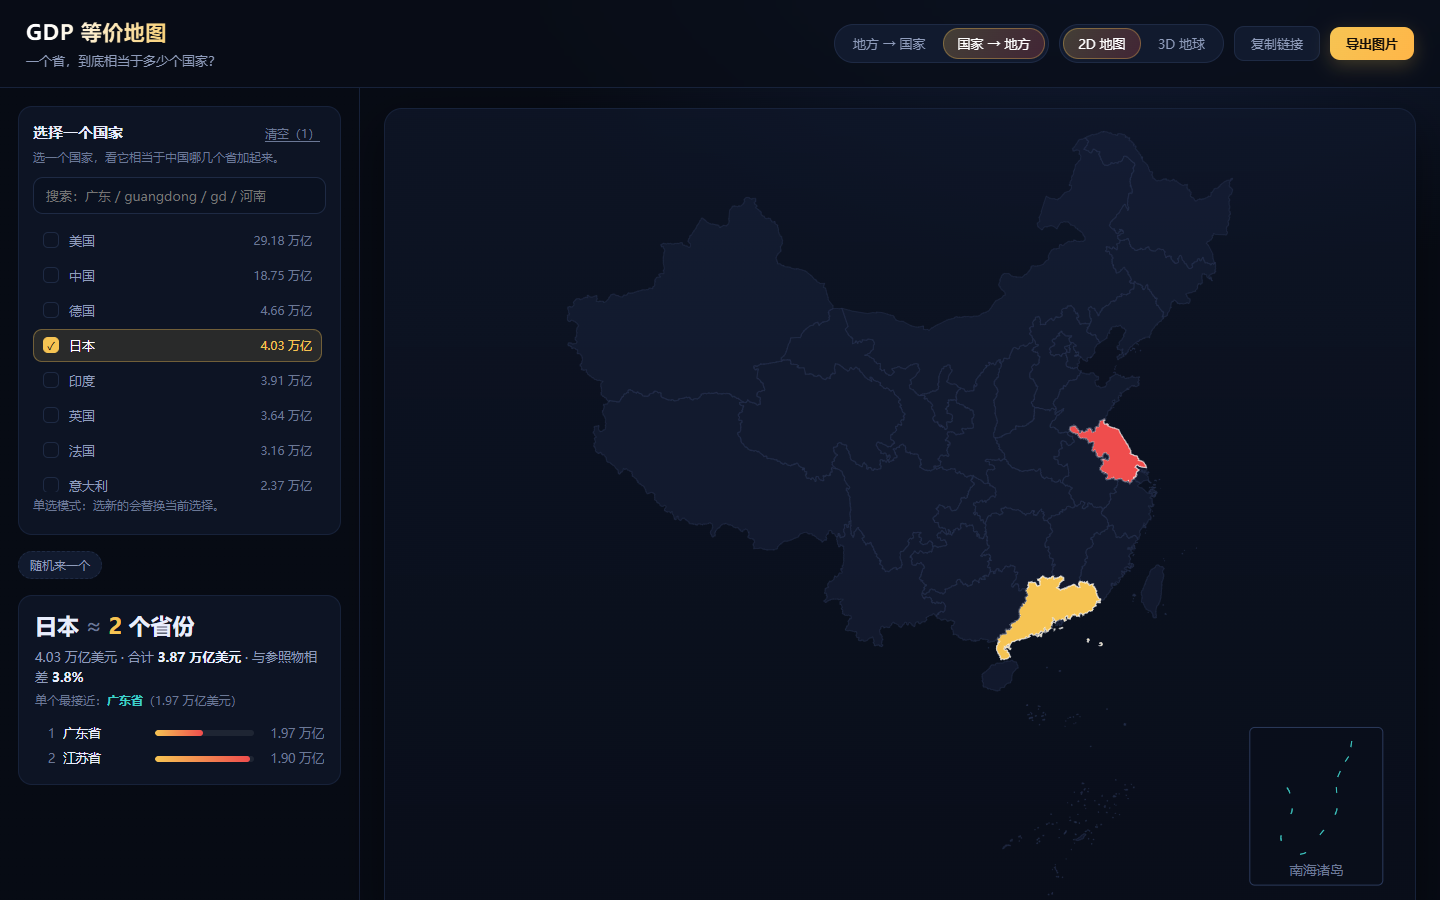
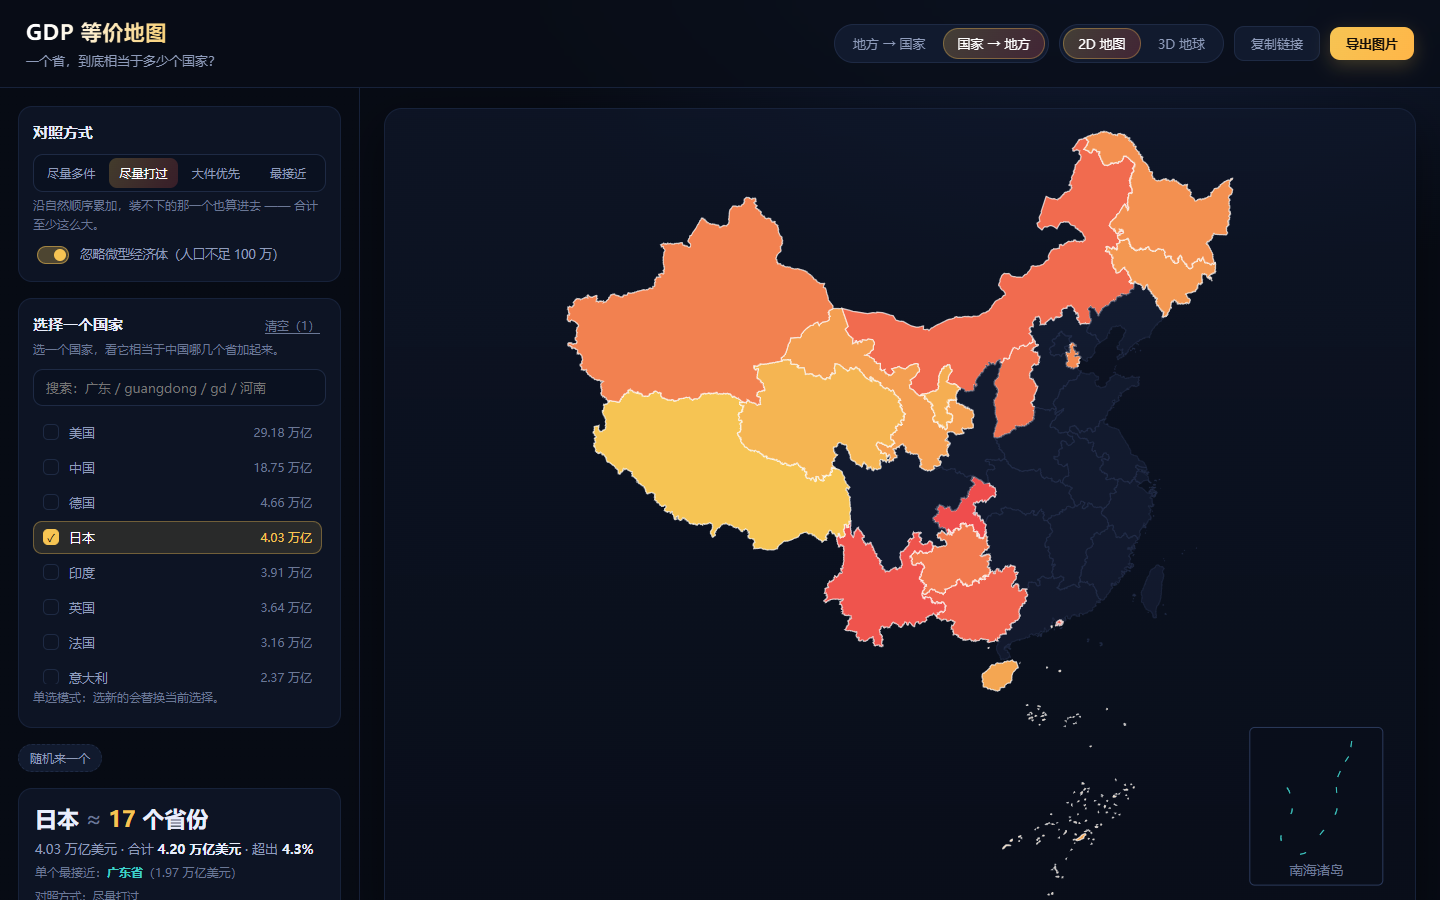
fix: correct 3D arc endpoints and split hidden segments
Arcs were drawn as a single polyline, so the part of a great circle that
falls behind the globe got connected straight across the map and the line
landed nowhere. Split the path per visible segment, take the endpoint from
the mainland centroid instead of the whole-country one that offshore
islands drag away, and mark the origin so the comparison is readable.

diff --git a/src/components/GlobeView.tsx b/src/components/GlobeView.tsx
@@ -31,7 +31,8 @@ export function GlobeView({ polygons, highlights, sources = new Map(), arcs = []
   const pathRefs = useRef(new Map<string, SVGPathElement>());
   const shadowRefs = useRef(new Map<string, SVGPathElement>());
   const labelRefs = useRef(new Map<string, SVGTextElement>());
-  const arcRefs = useRef(new Map<string, SVGPolylineElement>());
+  const arcRefs = useRef(new Map<string, SVGPathElement>());
+  const originRef = useRef<SVGGElement | null>(null);
   const rotation = useRef<[number, number]>([110, -20]);
   const drag = useRef<{ x: number; y: number; lon: number; lat: number } | null>(null);
   const frame = useRef(0);
@@ -85,38 +86,76 @@ export function GlobeView({ polygons, highlights, sources = new Map(), arcs = []
       el.setAttribute('y', String(c[1]));
     }
 
-    // 弧线：球面两点之间的大圆插值，再向外鼓一点做出立体感
+    // 弧线：球面两点之间的大圆插值，再向外鼓一点做出立体感。
+    // 关键：被地球背面遮住的那一段不能连过去，否则线会横穿地图、端点对不上。
     for (const [i, arc] of arcs.entries()) {
       const el = arcRefs.current.get(String(i));
       if (!el) continue;
-      const pts: string[] = [];
       const [lon1, lat1] = arc.start;
       const [lon2, lat2] = arc.end;
       const φ1 = (lat1 * Math.PI) / 180;
       const λ1 = (lon1 * Math.PI) / 180;
       const φ2 = (lat2 * Math.PI) / 180;
       const λ2 = (lon2 * Math.PI) / 180;
-      const d = 2 * Math.asin(Math.sqrt(Math.sin((φ2 - φ1) / 2) ** 2 + Math.cos(φ1) * Math.cos(φ2) * Math.sin((λ2 - λ1) / 2) ** 2));
-      for (let s = 0; s <= 40; s += 1) {
-        const t = s / 40;
+      const d =
+        2 *
+        Math.asin(
+          Math.sqrt(
+            Math.sin((φ2 - φ1) / 2) ** 2 + Math.cos(φ1) * Math.cos(φ2) * Math.sin((λ2 - λ1) / 2) ** 2
+          )
+        );
+
+      const segments: string[][] = [];
+      let current: string[] = [];
+      for (let s = 0; s <= 48; s += 1) {
+        const t = s / 48;
+        let lon: number;
+        let lat: number;
         if (d < 1e-6) {
-          pts.push(`${projection([lon1, lat1])?.join(',')}`);
+          lon = lon1;
+          lat = lat1;
+        } else {
+          const A = Math.sin((1 - t) * d) / Math.sin(d);
+          const B = Math.sin(t * d) / Math.sin(d);
+          const x = A * Math.cos(φ1) * Math.cos(λ1) + B * Math.cos(φ2) * Math.cos(λ2);
+          const y = A * Math.cos(φ1) * Math.sin(λ1) + B * Math.cos(φ2) * Math.sin(λ2);
+          const z = A * Math.sin(φ1) + B * Math.sin(φ2);
+          lon = (Math.atan2(y, x) * 180) / Math.PI;
+          lat = (Math.atan2(z, Math.hypot(x, y)) * 180) / Math.PI;
+        }
+        const p = projection([lon, lat]);
+        if (!p) {
+          // 背面不可见：断开，别把两段直线连起来
+          if (current.length > 1) segments.push(current);
+          current = [];
           continue;
         }
-        const A = Math.sin((1 - t) * d) / Math.sin(d);
-        const B = Math.sin(t * d) / Math.sin(d);
-        const x = A * Math.cos(φ1) * Math.cos(λ1) + B * Math.cos(φ2) * Math.cos(λ2);
-        const y = A * Math.cos(φ1) * Math.sin(λ1) + B * Math.cos(φ2) * Math.sin(λ2);
-        const z = A * Math.sin(φ1) + B * Math.sin(φ2);
-        const p = projection([(Math.atan2(y, x) * 180) / Math.PI, (Math.atan2(z, Math.hypot(x, y)) * 180) / Math.PI]);
-        if (!p) continue;
-        const bulge = 1 + 0.055 * Math.sin(Math.PI * t);
+        const bulge = 1 + 0.05 * Math.sin(Math.PI * t);
         const cx = SIZE / 2 + (p[0] - SIZE / 2) * bulge;
         const cy = SIZE / 2 + (p[1] - SIZE / 2) * bulge;
-        pts.push(`${cx.toFixed(1)},${cy.toFixed(1)}`);
+        current.push(`${cx.toFixed(1)},${cy.toFixed(1)}`);
       }
-      el.setAttribute('points', pts.join(' '));
-      el.setAttribute('opacity', '1');
+      if (current.length > 1) segments.push(current);
+
+      el.setAttribute('d', segments.map((seg) => `M${seg.join('L')}`).join(' '));
+      el.setAttribute('opacity', segments.length ? '1' : '0');
+    }
+
+    // 起点标记：所有弧线都从参照地区出发，标出来才看得出「谁对谁」
+    const origin = originRef.current;
+    if (origin) {
+      const first = arcs[0];
+      if (first) {
+        const p = projection([first.start[0], first.start[1]]);
+        if (p) {
+          origin.setAttribute('transform', `translate(${p[0]}, ${p[1]})`);
+          origin.setAttribute('opacity', '1');
+        } else {
+          origin.setAttribute('opacity', '0');
+        }
+      } else {
+        origin.setAttribute('opacity', '0');
+      }
     }
   }, [arcs, features, labelTargets, path, projection]);
 
@@ -248,7 +287,7 @@ export function GlobeView({ polygons, highlights, sources = new Map(), arcs = []
 
         <g className="globe-arcs">
           {arcs.map((arc, i) => (
-            <polyline
+            <path
               key={i}
               ref={(el) => {
                 if (el) arcRefs.current.set(String(i), el);
@@ -264,8 +303,12 @@ export function GlobeView({ polygons, highlights, sources = new Map(), arcs = []
           ))}
         </g>
 
-        <g className="globe-labels">
-          {labelTargets.map((t) => (
+        <g ref={originRef} className="globe-origin" opacity="0">
+          <circle r={9} fill="none" stroke="#3fd0c9" strokeWidth={1.4} opacity={0.85} />
+          <circle r={3.2} fill="#3fd0c9" />
+        </g>
+
+        <g className="globe-labels">          {labelTargets.map((t) => (
             <text
               key={t.id}
               ref={(el) => {

diff --git a/src/App.tsx b/src/App.tsx
@@ -7,7 +7,7 @@ import { ResultPanel } from './components/ResultPanel';
 import { WorldMap } from './components/WorldMap';
 import { loadChina, loadDataset, loadWorld, provinceToRegion, toRegion } from './lib/data';
 import { copyText, exportPng } from './lib/export';
-import { createChinaProjection, mixColor, PALETTE } from './lib/geo';
+import { createChinaProjection, featureMainCentroid, mixColor, PALETTE } from './lib/geo';
 import { formatUsd } from './lib/format';
 import { closestSingle, matchByStrategy, STRATEGY_HINT, STRATEGY_LABEL } from './lib/match';
 import type { GdpItem, MatchStrategy } from './lib/match';
@@ -177,8 +177,8 @@ export default function App() {
     const centroidOfWorld = (id: string): [number, number] | null => {
       const f = world.features.find((x) => String(x.id) === id);
       if (!f) return null;
-      const c = geoCentroid(f as never);
-      return [c[0], c[1]];
+      // 用主体质心：整国的球面质心会被离岛带偏，弧线终点就落不到地方上
+      return featureMainCentroid(f);
     };
     // 弧线太多会糊成一团：只连最大的若干个
     const top = match.items.slice().sort((a, b) => b.gdp - a.gdp).slice(0, 12);

diff --git a/src/lib/geo.ts b/src/lib/geo.ts
@@ -104,3 +104,32 @@ export function featureCentroid(f: GeoFeature): [number, number] {
     return [0, 0];
   }
 }
+
+/**
+ * 主体质心：只取面积最大的那个多边形。
+ * 直接用 geoCentroid 会把离岛（法属圭亚那、夏威夷之类）一起算进去，
+ * 质心会漂到海上，地图上的弧线就会「对不上地点」。
+ */
+export function featureMainCentroid(f: GeoFeature): [number, number] {
+  try {
+    const polys =
+      f.geometry.type === 'Polygon'
+        ? [f.geometry.coordinates as unknown]
+        : (f.geometry.coordinates as unknown[]);
+    let best: unknown = null;
+    let bestArea = -1;
+    for (const poly of polys) {
+      const one = { type: 'Feature', properties: {}, geometry: { type: 'Polygon', coordinates: poly } } as never;
+      const area = Math.abs(geoArea(one));
+      if (area > bestArea) {
+        bestArea = area;
+        best = one;
+      }
+    }
+    if (!best) return featureCentroid(f);
+    const c = geoCentroid(best as never);
+    return [c[0], c[1]];
+  } catch {
+    return featureCentroid(f);
+  }
+}

diff --git a/README.md b/README.md
@@ -13,10 +13,21 @@
 | 地方 → 国家 | 选 1~N 个中国省级地区 | 地图上高亮等价的国家集合，并给出「≈ N 个国家」 |
 | 国家 → 地方 | 选 1 个国家 | 中国地图上高亮等价省份组合，并附南海诸岛 |
 
+**四种对照方式**（同一个目标，不同说法）：
+
+| 方式 | 规则 | 河南省（8,835 亿美元）的结果 |
+| --- | --- | --- |
+| 尽量多件 | 小件优先，件数最多，合计不超过目标 | 51 个国家，-2.6% |
+| 尽量打过 | 小件优先，装不下的那一个也算进去 | 52 个国家，**+1.4%**（至少这么大） |
+| 大件优先 | 大件优先，结果由叫得出名字的经济体组成 | 比利时 + 乌克兰 + 阿尔巴尼亚，-0.1% |
+| 最接近 | 只看单个最接近的对象 | 波兰，+2.8% |
+
+再配合「忽略微型经济体（人口不足 100 万）」开关，可以把图瓦卢、瑙鲁这类微型国家从结果里剔掉。
+
 - **2D 世界地图**：Natural Earth 投影，等价国家按累加顺序由暖到暗着色，左下角带中国定位小图
-- **3D 地球**：正射投影球面，自动旋转、可拖动，参照地区与等价国家之间连大圆弧线
+- **3D 地球**：正射投影球面，自动旋转、可拖动，参照地区与等价国家之间连大圆弧线（被球体背面遮住的部分会断开，不会横穿地球）
 - **搜索**：中文 / 拼音 / 拼音首字母都能搜（`广东` / `guangdong` / `gd`）
-- **分享**：选择状态写进 URL，复制链接即可复现同一张图
+- **分享**：选择状态、��照方式、过滤开关都写进 URL，复制链接即可复现同一张图
 - **导出**：一键导出带标题与数据来源的 PNG（2D / 3D 都支持）
 
 ## 跑起来
@@ -40,7 +51,7 @@ node scripts/acceptance.mjs   # 浏览器级验收（需先起 dev server）
 
 | 侧 | 来源 | 口径 |
 | --- | --- | --- |
-| 国家 | IMF《世界经济展望》2025 年 4 月版（经 DBnomics 镜像） | 名义 GDP，现价美元；2024 为实际值，2025 为该版预测值 |
+| 国家 | IMF《世界经济展望》2025 年 4 月版（经 DBnomics 镜像） | 名义 GDP + 人口，现价美元 / 百万人；2024 为实际值，2025 为该版预测值 |
 | 中国省级 | 国家统计局《中国统计年鉴2025》表 3-9《地区生产总值(2024年)》 | 名义 GDP，现价人民币，按当年年均汇率折美元 |
 | 汇率 | World Bank `PA.NUS.FCRF` | 年均官方汇率 |
 | 世界边界 | Natural Earth（经 D3 graph gallery 转换，ISO3 编号） | 台湾并入中国轮廓 |
@@ -53,14 +64,14 @@ node scripts/acceptance.mjs   # 浏览器级验收（需先起 dev server）
 
 ## 算法
 
-只有一小块是自己写的，其余都是成熟库：
+只有一小块是自己写的，其余都是成熟库（`src/lib/match.ts`）：
 
-- **地方 → 国家**：把国家按 GDP 从小到大排序后贪心累加，取累计值与目标最接近的一组
-  （`src/lib/match.ts` 的 `accumulateAscending`）
-- **国家 → 地方**：反过来，从大到小累加（`accumulateDescending`）
-- **单个最接近**：另给一个对照，例如「河南 ≈ 波兰」
+- `accumulate(target, pool, { order, rule })`：一个带两种顺序（升序/降序）和两种规则
+  （装得下就加 / 装不下的那一个也算进去）的通用累加器，四种对照方式都由它组合出来
+- `matchByStrategy(target, pool, strategy)`：把四种口径包成统一入口
+- `closestSingle`：单个最接近的对象
 
-累加是贪心的，所以结果是「一组国家」，不是一个；总数（81 个）正是这个工具想给的那个数字。
+累加是贪心的，所以结果是「一组国家」，不是一个；件数（51 个 / 3 个）正是这个工具想给的那个数字。
 
 ## 技术选型
 
@@ -101,7 +112,7 @@ node scripts/acceptance.mjs   # 浏览器级验收（需先起 dev server）
 - 只做了**名义 GDP（当年价格美元）**。PPP 口径在原始数据里备着，但省级没有同口径的 PPP 源，暂不开放切换
 - 数据年份目前锁定 2024（双方都有官方实绩的最新完整年度）
 - 只有中国省级 + 世界国家；美国州、欧洲 NUTS 暂未接入
-- 「≈ N 个国家」是贪心累加的结果，不同算法会得到不同但同样合理的组合
+- 「≈ N 个国家」是贪心累加的结果，不同算法会得到不同但同样合理的组合；四种对照方式就是给这件事的四个口径
 
 ## License
 

diff --git a/AGENTS.md b/AGENTS.md
@@ -44,6 +44,9 @@
 
 1. **主答案是「一组国家」，不是一个。** 「河南 ≈ 81 个国家」这个数字才是这个项目的卖点，
    所以匹配算法用贪心累加，不要改成「找最接近的单个国家」。
+2. **对照方式有四种，不要合并成一种。** 纯贪心永远给出图瓦卢、瑙鲁那一串微型国家，
+   所以另给了「尽量多件 / 尽量打过 / 大件优先 / 最接近」四种口径，
+   外加「忽略微型经济体（人口 < 100 万）」开关。默认「尽量打过」。
 2. **纯 SVG，不引 WebGL。** 地球用 d3-geo 正射投影实现。曾经用 globe.gl（three.js），
    在受限环境里会把页面渲染进程卡死，且导出要走 canvas，收益远小于代价。
 3. **只用名义 GDP（当年价格美元）。** PPP 在原始数据里备着，但省级没有同口径 PPP 源，
@@ -52,6 +55,7 @@
 5. **中国地图用 DataV 边界并附南海诸岛小图。** 面向国内发布时这是合规要求，别去掉。
 6. **台湾并入中国轮廓（世界地图）。** 中国省级列表里台湾省是单独一级行政区。
 7. **港澳台走省级池，不进国家池。** 避免同一个经济体在两个列表里各出现一次。
+8. **对照方式与过滤开关写进 URL。** 分享链接要复现同一张图，光有选择项不够。
 
 ## 4. 已知的技术坑（改代码前先看这里）
 
@@ -63,6 +67,11 @@
 - **导出前必须摘掉 SVG 上的滤镜。** 逐路径高斯模糊会让栅格化慢到页面假死（105 个高亮路径时实测会卡）。
   `src/lib/export.ts` 里已经做了 `clone.querySelectorAll('[filter]')` 的清理。
 - **地球每帧要重算 209 条路径**，所以做了节流（约 18 帧/秒），别去掉。
+- **3D 弧线不能横穿球体。** 正射投影在背面返回 null，那一段必须断开成新的子路径，
+  否则两点会被直接连成一条横穿地图的直线（这正是「虚线对不上地点」的成因）。
+  `src/components/GlobeView.tsx` 里按可见片段拼 `M…L…` 多段子路径。
+- **弧线端点要用「主体质心」而不是整国质心。** `geoCentroid` 会把离岛（法属圭亚那之类）
+  一起算进去，质心漂到海上，线就落不到地方上；用 `geo.ts` 的 `featureMainCentroid()`。
 - **国家统计局年鉴表是图片**（`html/C03-09.jpg`），数值是人工读出来的，存在 `data/provincial-gdp-2024.json`；
   换年鉴版本时要重新读数，不要从别处抄。
 
